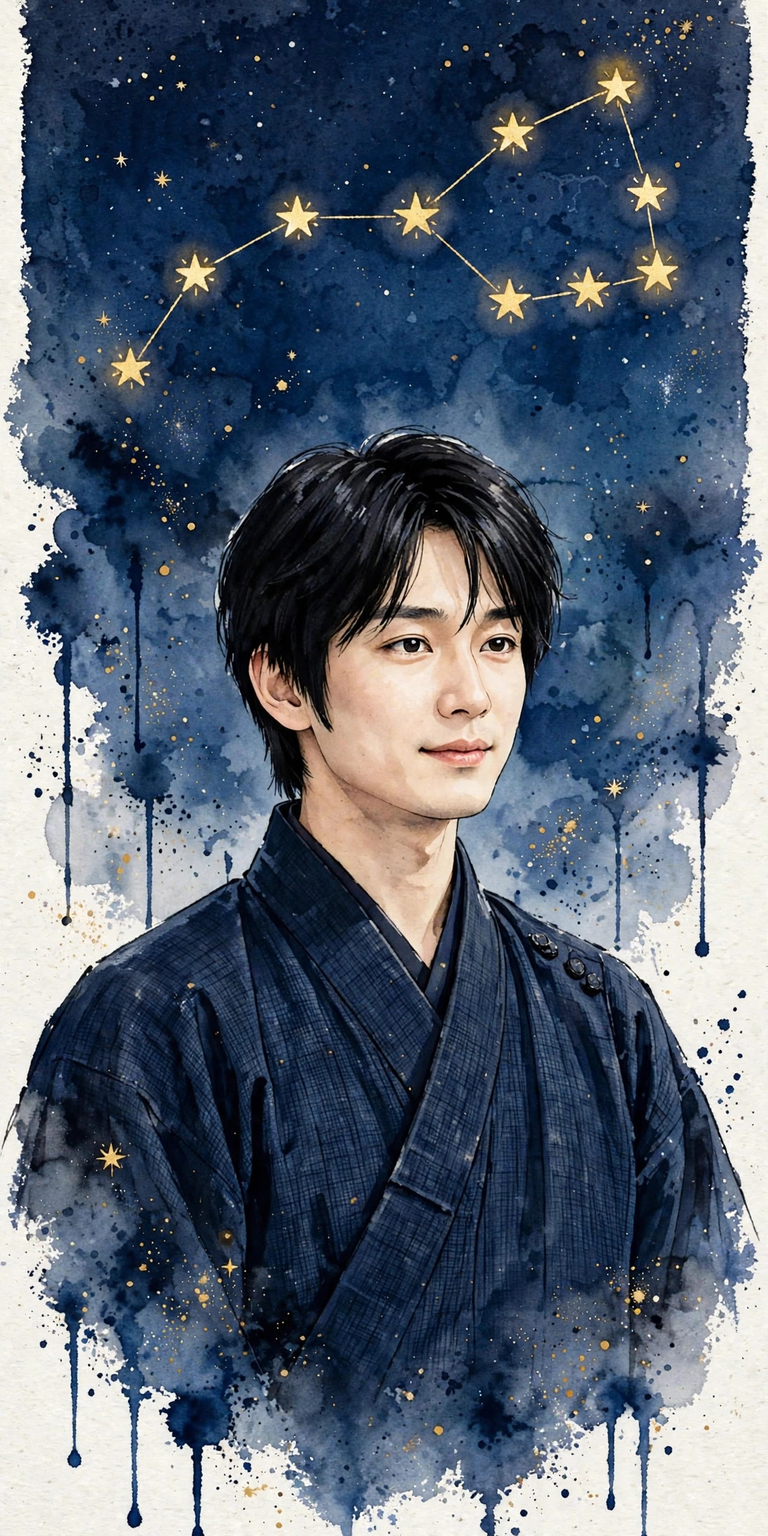
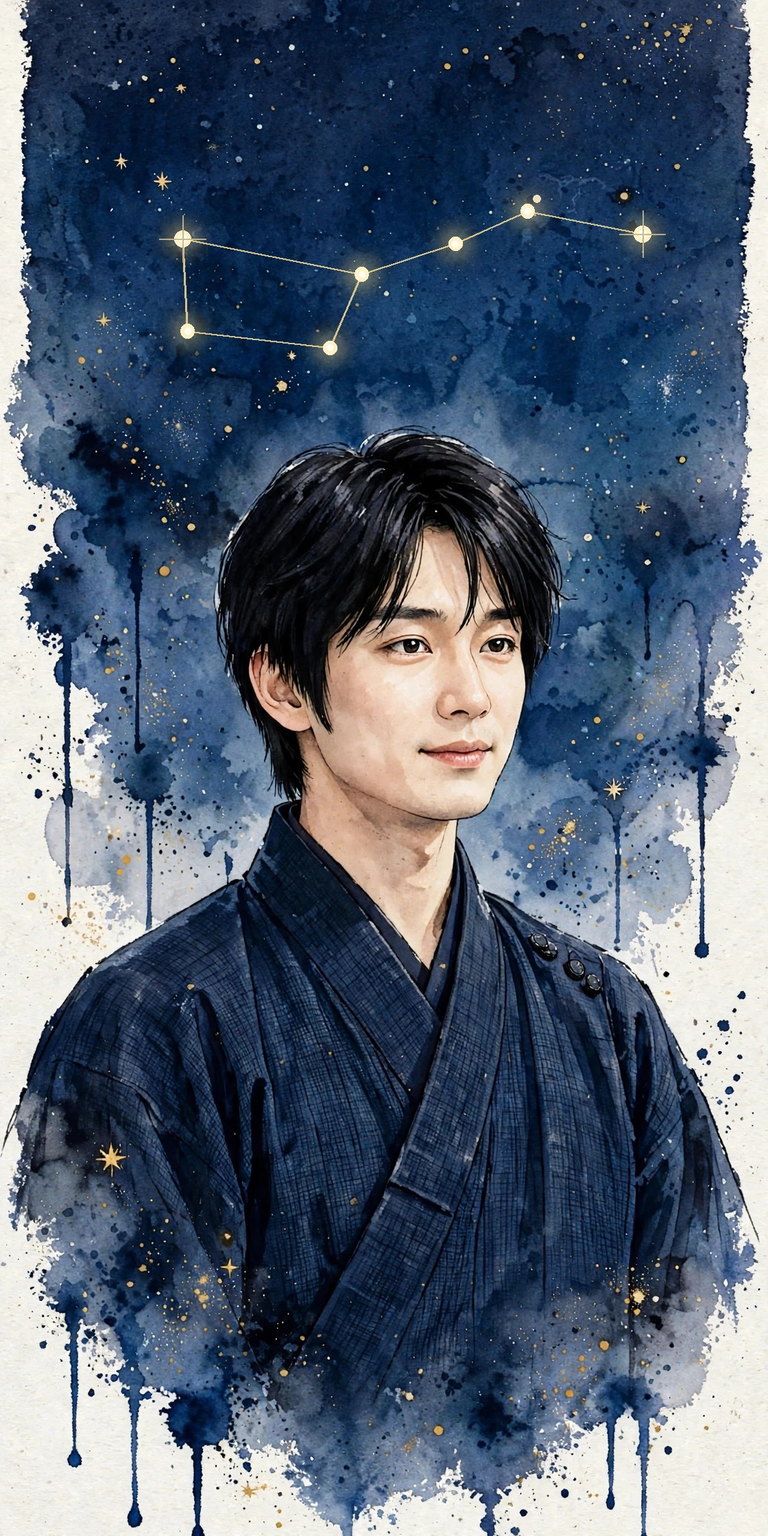
肖像の北斗七星を正確な形に合成、星図に星を追加

diff --git a/index.html b/index.html
@@ -181,7 +181,7 @@ gtag('config', 'G-05REBCGLHK');
 <g transform="rotate(-32 320 320)"><g class="nx-sky">
 <g stroke="rgba(232,201,106,.75)" stroke-width="1.4"><line x1="320.0" y1="48.0" x2="320.0" y2="28.0"/><line x1="382.3" y1="47.0" x2="385.0" y2="35.3"/><line x1="441.5" y1="67.7" x2="446.7" y2="56.9"/><line x1="494.6" y1="101.1" x2="502.1" y2="91.7"/><line x1="538.9" y1="145.4" x2="548.3" y2="137.9"/><line x1="572.3" y1="198.5" x2="583.1" y2="193.3"/><line x1="593.0" y1="257.7" x2="604.7" y2="255.0"/><line x1="592.0" y1="320.0" x2="612.0" y2="320.0"/><line x1="593.0" y1="382.3" x2="604.7" y2="385.0"/><line x1="572.3" y1="441.5" x2="583.1" y2="446.7"/><line x1="538.9" y1="494.6" x2="548.3" y2="502.1"/><line x1="494.6" y1="538.9" x2="502.1" y2="548.3"/><line x1="441.5" y1="572.3" x2="446.7" y2="583.1"/><line x1="382.3" y1="593.0" x2="385.0" y2="604.7"/><line x1="320.0" y1="592.0" x2="320.0" y2="612.0"/><line x1="257.7" y1="593.0" x2="255.0" y2="604.7"/><line x1="198.5" y1="572.3" x2="193.3" y2="583.1"/><line x1="145.4" y1="538.9" x2="137.9" y2="548.3"/><line x1="101.1" y1="494.6" x2="91.7" y2="502.1"/><line x1="67.7" y1="441.5" x2="56.9" y2="446.7"/><line x1="47.0" y1="382.3" x2="35.3" y2="385.0"/><line x1="48.0" y1="320.0" x2="28.0" y2="320.0"/><line x1="47.0" y1="257.7" x2="35.3" y2="255.0"/><line x1="67.7" y1="198.5" x2="56.9" y2="193.3"/><line x1="101.1" y1="145.4" x2="91.7" y2="137.9"/><line x1="145.4" y1="101.1" x2="137.9" y2="91.7"/><line x1="198.5" y1="67.7" x2="193.3" y2="56.9"/><line x1="257.7" y1="47.0" x2="255.0" y2="35.3"/></g>
 
-<path d="M316.9,316.1 L343.0,322.8" stroke="rgba(232,201,106,.45)" stroke-width="1"/><path d="M343.0,322.8 L371.3,337.2" stroke="rgba(232,201,106,.45)" stroke-width="1"/><path d="M371.3,337.2 L388.8,366.4" stroke="rgba(232,201,106,.45)" stroke-width="1"/><path d="M388.8,366.4 L407.3,361.9" stroke="rgba(232,201,106,.45)" stroke-width="1"/><path d="M407.3,361.9 L393.0,399.2" stroke="rgba(232,201,106,.45)" stroke-width="1"/><path d="M393.0,399.2 L414.9,399.1" stroke="rgba(232,201,106,.45)" stroke-width="1"/><path d="M414.9,399.1 L388.8,366.4" stroke="rgba(232,201,106,.45)" stroke-width="1"/><circle cx="343.0" cy="322.8" r="2.4" fill="#e8d9a0"/><circle cx="371.3" cy="337.2" r="2.2" fill="#e8d9a0"/><circle cx="388.8" cy="366.4" r="2.6" fill="#e8d9a0"/><circle cx="407.3" cy="361.9" r="2.2" fill="#e8d9a0"/><circle cx="393.0" cy="399.2" r="3.4" fill="#e8d9a0"/><circle cx="414.9" cy="399.1" r="3.2" fill="#e8d9a0"/><path d="M311.6,110.4 L280.0,96.0" stroke="rgba(232,201,106,.5)" stroke-width="1"/><path d="M280.0,96.0 L271.2,126.9" stroke="rgba(232,201,106,.5)" stroke-width="1"/><path d="M271.2,126.9 L246.0,131.6" stroke="rgba(232,201,106,.5)" stroke-width="1"/><path d="M246.0,131.6 L234.3,162.8" stroke="rgba(232,201,106,.5)" stroke-width="1"/><circle cx="311.6" cy="110.4" r="3.8" fill="#f2df9e"/><circle cx="280.0" cy="96.0" r="3.8" fill="#f2df9e"/><circle cx="271.2" cy="126.9" r="3.8" fill="#f2df9e"/><circle cx="246.0" cy="131.6" r="3.8" fill="#f2df9e"/><circle cx="234.3" cy="162.8" r="3.8" fill="#f2df9e"/><circle cx="406.5" cy="541.8" r="1.9" fill="#ffe9a8"/><text x="414.5" y="535.8" font-size="11" fill="#cbbd8a" letter-spacing=".12em">輔星</text><text x="422.9" y="417.0" font-size="13" fill="rgba(203,189,138,.9)" letter-spacing=".34em" text-anchor="middle">こぐま座</text><text x="263.9" y="97.9" font-size="13" fill="rgba(203,189,138,.9)" letter-spacing=".34em" text-anchor="middle">カシオペヤ座</text><ellipse cx="215" cy="215" rx="330" ry="105" fill="rgba(240,230,200,.05)" transform="rotate(-38 320 320)" filter="url(#nxblur)"/><defs><filter id="nxblur" x="-20%" y="-20%" width="140%" height="140%"><feGaussianBlur stdDeviation="16"/></filter></defs><path d="M302.3,459.4 L340.0,455.9" stroke="rgba(232,201,106,.38)" stroke-width="1"/><path d="M340.0,455.9 L410.0,469.2" stroke="rgba(232,201,106,.38)" stroke-width="1"/><path d="M410.0,469.2 L484.5,452.2" stroke="rgba(232,201,106,.38)" stroke-width="1"/><path d="M484.5,452.2 L496.9,398.9" stroke="rgba(232,201,106,.38)" stroke-width="1"/><path d="M496.9,398.9 L481.0,356.8" stroke="rgba(232,201,106,.38)" stroke-width="1"/><path d="M481.0,356.8 L545.2,326.9" stroke="rgba(232,201,106,.38)" stroke-width="1"/><path d="M545.2,326.9 L581.8,323.9" stroke="rgba(232,201,106,.38)" stroke-width="1"/><path d="M581.8,323.9 L574.2,353.0" stroke="rgba(232,201,106,.38)" stroke-width="1"/><path d="M574.2,353.0 L555.0,348.5" stroke="rgba(232,201,106,.38)" stroke-width="1"/><path d="M555.0,348.5 L545.2,326.9" stroke="rgba(232,201,106,.38)" stroke-width="1"/><circle cx="302.3" cy="459.4" r="2.6" fill="#e8d9a0"/><circle cx="340.0" cy="455.9" r="2.6" fill="#e8d9a0"/><circle cx="410.0" cy="469.2" r="2.6" fill="#e8d9a0"/><circle cx="484.5" cy="452.2" r="2.6" fill="#e8d9a0"/><circle cx="496.9" cy="398.9" r="2.6" fill="#e8d9a0"/><circle cx="481.0" cy="356.8" r="2.6" fill="#e8d9a0"/><circle cx="545.2" cy="326.9" r="2.6" fill="#e8d9a0"/><circle cx="581.8" cy="323.9" r="2.6" fill="#e8d9a0"/><circle cx="574.2" cy="353.0" r="2.6" fill="#e8d9a0"/><circle cx="555.0" cy="348.5" r="2.6" fill="#e8d9a0"/><text x="524.3" y="411.2" font-size="13" fill="rgba(203,189,138,.9)" letter-spacing=".34em" text-anchor="middle">りゅう座</text><path d="M465.1,192.7 L440.7,178.0" stroke="rgba(232,201,106,.42)" stroke-width="1"/><path d="M440.7,178.0 L401.1,215.6" stroke="rgba(232,201,106,.42)" stroke-width="1"/><path d="M401.1,215.6 L327.6,236.2" stroke="rgba(232,201,106,.42)" stroke-width="1"/><path d="M440.7,178.0 L419.1,127.8" stroke="rgba(232,201,106,.42)" stroke-width="1"/><path d="M419.1,127.8 L402.9,121.9" stroke="rgba(232,201,106,.42)" stroke-width="1"/><path d="M402.9,121.9 L440.7,178.0" stroke="rgba(232,201,106,.42)" stroke-width="1"/><circle cx="440.7" cy="178.0" r="2.8" fill="#e8d9a0"/><circle cx="401.1" cy="215.6" r="2.8" fill="#e8d9a0"/><circle cx="327.6" cy="236.2" r="2.8" fill="#e8d9a0"/><circle cx="419.1" cy="127.8" r="2.8" fill="#e8d9a0"/><circle cx="465.1" cy="192.7" r="2.8" fill="#e8d9a0"/><circle cx="402.9" cy="121.9" r="2.8" fill="#e8d9a0"/><text x="432.8" y="101.1" font-size="13" fill="rgba(203,189,138,.9)" letter-spacing=".34em" text-anchor="middle">ケフェウス座</text><path d="M140.9,148.2 L107.7,148.5" stroke="rgba(232,201,106,.4)" stroke-width="1"/><path d="M107.7,148.5 L82.8,158.3" stroke="rgba(232,201,106,.4)" stroke-width="1"/><circle cx="140.9" cy="148.2" r="2.7" fill="#e8d9a0"/><circle cx="107.7" cy="148.5" r="2.7" fill="#e8d9a0"/><circle cx="82.8" cy="158.3" r="2.7" fill="#e8d9a0"/><text x="84.3" y="129.7" font-size="13" fill="rgba(203,189,138,.9)" letter-spacing=".34em" text-anchor="middle">ペルセウス座</text><path d="M171.5,257.9 L157.5,275.2" stroke="rgba(232,201,106,.3)" stroke-width="1"/><path d="M157.5,275.2 L125.0,271.1" stroke="rgba(232,201,106,.3)" stroke-width="1"/><circle cx="171.5" cy="257.9" r="2.1" fill="#d9c98f" opacity=".8"/><circle cx="125.0" cy="271.1" r="2.1" fill="#d9c98f" opacity=".8"/><circle cx="157.5" cy="275.2" r="2.1" fill="#d9c98f" opacity=".8"/><text x="132.5" y="268.3" font-size="13" fill="rgba(203,189,138,.9)" letter-spacing=".34em" text-anchor="middle">キリン座</text><path d="M262.6,541.3 L316.9,316.1" stroke="rgba(232,201,106,.4)" stroke-width="1" stroke-dasharray="2 6"/>
+<path d="M316.9,316.1 L343.0,322.8" stroke="rgba(232,201,106,.45)" stroke-width="1"/><path d="M343.0,322.8 L371.3,337.2" stroke="rgba(232,201,106,.45)" stroke-width="1"/><path d="M371.3,337.2 L388.8,366.4" stroke="rgba(232,201,106,.45)" stroke-width="1"/><path d="M388.8,366.4 L407.3,361.9" stroke="rgba(232,201,106,.45)" stroke-width="1"/><path d="M407.3,361.9 L393.0,399.2" stroke="rgba(232,201,106,.45)" stroke-width="1"/><path d="M393.0,399.2 L414.9,399.1" stroke="rgba(232,201,106,.45)" stroke-width="1"/><path d="M414.9,399.1 L388.8,366.4" stroke="rgba(232,201,106,.45)" stroke-width="1"/><circle cx="343.0" cy="322.8" r="2.4" fill="#e8d9a0"/><circle cx="371.3" cy="337.2" r="2.2" fill="#e8d9a0"/><circle cx="388.8" cy="366.4" r="2.6" fill="#e8d9a0"/><circle cx="407.3" cy="361.9" r="2.2" fill="#e8d9a0"/><circle cx="393.0" cy="399.2" r="3.4" fill="#e8d9a0"/><circle cx="414.9" cy="399.1" r="3.2" fill="#e8d9a0"/><path d="M311.6,110.4 L280.0,96.0" stroke="rgba(232,201,106,.5)" stroke-width="1"/><path d="M280.0,96.0 L271.2,126.9" stroke="rgba(232,201,106,.5)" stroke-width="1"/><path d="M271.2,126.9 L246.0,131.6" stroke="rgba(232,201,106,.5)" stroke-width="1"/><path d="M246.0,131.6 L234.3,162.8" stroke="rgba(232,201,106,.5)" stroke-width="1"/><circle cx="311.6" cy="110.4" r="3.8" fill="#f2df9e"/><circle cx="280.0" cy="96.0" r="3.8" fill="#f2df9e"/><circle cx="271.2" cy="126.9" r="3.8" fill="#f2df9e"/><circle cx="246.0" cy="131.6" r="3.8" fill="#f2df9e"/><circle cx="234.3" cy="162.8" r="3.8" fill="#f2df9e"/><circle cx="406.5" cy="541.8" r="1.9" fill="#ffe9a8"/><text x="414.5" y="535.8" font-size="11" fill="#cbbd8a" letter-spacing=".12em">輔星</text><text x="422.9" y="417.0" font-size="13" fill="rgba(203,189,138,.9)" letter-spacing=".34em" text-anchor="middle">こぐま座</text><text x="263.9" y="97.9" font-size="13" fill="rgba(203,189,138,.9)" letter-spacing=".34em" text-anchor="middle">カシオペヤ座</text><ellipse cx="215" cy="215" rx="330" ry="105" fill="rgba(240,230,200,.05)" transform="rotate(-38 320 320)" filter="url(#nxblur)"/><defs><filter id="nxblur" x="-20%" y="-20%" width="140%" height="140%"><feGaussianBlur stdDeviation="16"/></filter></defs><path d="M302.3,459.4 L340.0,455.9" stroke="rgba(232,201,106,.38)" stroke-width="1"/><path d="M340.0,455.9 L410.0,469.2" stroke="rgba(232,201,106,.38)" stroke-width="1"/><path d="M410.0,469.2 L484.5,452.2" stroke="rgba(232,201,106,.38)" stroke-width="1"/><path d="M484.5,452.2 L496.9,398.9" stroke="rgba(232,201,106,.38)" stroke-width="1"/><path d="M496.9,398.9 L481.0,356.8" stroke="rgba(232,201,106,.38)" stroke-width="1"/><path d="M481.0,356.8 L545.2,326.9" stroke="rgba(232,201,106,.38)" stroke-width="1"/><path d="M545.2,326.9 L581.8,323.9" stroke="rgba(232,201,106,.38)" stroke-width="1"/><path d="M581.8,323.9 L574.2,353.0" stroke="rgba(232,201,106,.38)" stroke-width="1"/><path d="M574.2,353.0 L555.0,348.5" stroke="rgba(232,201,106,.38)" stroke-width="1"/><path d="M555.0,348.5 L545.2,326.9" stroke="rgba(232,201,106,.38)" stroke-width="1"/><circle cx="302.3" cy="459.4" r="2.6" fill="#e8d9a0"/><circle cx="340.0" cy="455.9" r="2.6" fill="#e8d9a0"/><circle cx="410.0" cy="469.2" r="2.6" fill="#e8d9a0"/><circle cx="484.5" cy="452.2" r="2.6" fill="#e8d9a0"/><circle cx="496.9" cy="398.9" r="2.6" fill="#e8d9a0"/><circle cx="481.0" cy="356.8" r="2.6" fill="#e8d9a0"/><circle cx="545.2" cy="326.9" r="2.6" fill="#e8d9a0"/><circle cx="581.8" cy="323.9" r="2.6" fill="#e8d9a0"/><circle cx="574.2" cy="353.0" r="2.6" fill="#e8d9a0"/><circle cx="555.0" cy="348.5" r="2.6" fill="#e8d9a0"/><text x="524.3" y="411.2" font-size="13" fill="rgba(203,189,138,.9)" letter-spacing=".34em" text-anchor="middle">りゅう座</text><path d="M465.1,192.7 L440.7,178.0" stroke="rgba(232,201,106,.42)" stroke-width="1"/><path d="M440.7,178.0 L401.1,215.6" stroke="rgba(232,201,106,.42)" stroke-width="1"/><path d="M401.1,215.6 L327.6,236.2" stroke="rgba(232,201,106,.42)" stroke-width="1"/><path d="M440.7,178.0 L419.1,127.8" stroke="rgba(232,201,106,.42)" stroke-width="1"/><path d="M419.1,127.8 L402.9,121.9" stroke="rgba(232,201,106,.42)" stroke-width="1"/><path d="M402.9,121.9 L440.7,178.0" stroke="rgba(232,201,106,.42)" stroke-width="1"/><circle cx="440.7" cy="178.0" r="2.8" fill="#e8d9a0"/><circle cx="401.1" cy="215.6" r="2.8" fill="#e8d9a0"/><circle cx="327.6" cy="236.2" r="2.8" fill="#e8d9a0"/><circle cx="419.1" cy="127.8" r="2.8" fill="#e8d9a0"/><circle cx="465.1" cy="192.7" r="2.8" fill="#e8d9a0"/><circle cx="402.9" cy="121.9" r="2.8" fill="#e8d9a0"/><text x="432.8" y="101.1" font-size="13" fill="rgba(203,189,138,.9)" letter-spacing=".34em" text-anchor="middle">ケフェウス座</text><circle cx="162.1" cy="441.3" r="2.5" fill="#e8d9a0"/><circle cx="207.4" cy="498.0" r="2.5" fill="#e8d9a0"/><circle cx="190.7" cy="527.4" r="2.5" fill="#e8d9a0"/><path d="M207.4,498.0 L190.7,527.4" stroke="rgba(232,201,106,.3)" stroke-width="1"/><text x="262.6" y="549.0" font-size="13" fill="rgba(232,201,106,.95)" letter-spacing=".34em" text-anchor="middle">北斗七星</text><circle cx="329.9" cy="316.1" r="1.1" fill="#d9c98f" opacity=".75"/><circle cx="327.4" cy="323.7" r="1.1" fill="#d9c98f" opacity=".75"/><circle cx="320.9" cy="328.4" r="1.1" fill="#d9c98f" opacity=".75"/><circle cx="312.9" cy="328.4" r="1.1" fill="#d9c98f" opacity=".75"/><circle cx="306.4" cy="323.7" r="1.1" fill="#d9c98f" opacity=".75"/><circle cx="303.9" cy="316.1" r="1.1" fill="#d9c98f" opacity=".75"/><circle cx="306.4" cy="308.4" r="1.1" fill="#d9c98f" opacity=".75"/><circle cx="312.9" cy="303.7" r="1.1" fill="#d9c98f" opacity=".75"/><circle cx="320.9" cy="303.7" r="1.1" fill="#d9c98f" opacity=".75"/><circle cx="327.4" cy="308.4" r="1.1" fill="#d9c98f" opacity=".75"/><path d="M140.9,148.2 L107.7,148.5" stroke="rgba(232,201,106,.4)" stroke-width="1"/><path d="M107.7,148.5 L82.8,158.3" stroke="rgba(232,201,106,.4)" stroke-width="1"/><circle cx="140.9" cy="148.2" r="2.7" fill="#e8d9a0"/><circle cx="107.7" cy="148.5" r="2.7" fill="#e8d9a0"/><circle cx="82.8" cy="158.3" r="2.7" fill="#e8d9a0"/><text x="84.3" y="129.7" font-size="13" fill="rgba(203,189,138,.9)" letter-spacing=".34em" text-anchor="middle">ペルセウス座</text><path d="M171.5,257.9 L157.5,275.2" stroke="rgba(232,201,106,.3)" stroke-width="1"/><path d="M157.5,275.2 L125.0,271.1" stroke="rgba(232,201,106,.3)" stroke-width="1"/><circle cx="171.5" cy="257.9" r="2.1" fill="#d9c98f" opacity=".8"/><circle cx="125.0" cy="271.1" r="2.1" fill="#d9c98f" opacity=".8"/><circle cx="157.5" cy="275.2" r="2.1" fill="#d9c98f" opacity=".8"/><text x="132.5" y="268.3" font-size="13" fill="rgba(203,189,138,.9)" letter-spacing=".34em" text-anchor="middle">キリン座</text><path d="M262.6,541.3 L316.9,316.1" stroke="rgba(232,201,106,.4)" stroke-width="1" stroke-dasharray="2 6"/>
 <path d="M273.3,506.3 L262.6,541.3 L313.3,566.8 L335.1,543.7 Z" stroke="rgba(232,201,106,.65)" stroke-width="1.2"/>
 <path d="M335.1,543.7 L374.1,545.1 L405.4,542.7 L445.1,566.8" stroke="rgba(232,201,106,.65)" stroke-width="1.2"/>
 <circle cx="273.3" cy="506.3" r="6" fill="#ffe9a8"/><text x="237.3" y="498.3" font-size="14" fill="#cbbd8a" letter-spacing=".15em">天枢</text><circle cx="262.6" cy="541.3" r="5.5" fill="#ffe9a8"/><text x="254.6" y="567.3" font-size="14" fill="#cbbd8a" letter-spacing=".15em">天璇</text><circle cx="313.3" cy="566.8" r="5" fill="#ffe9a8"/><text x="325.3" y="586.8" font-size="14" fill="#cbbd8a" letter-spacing=".15em">天璣</text><circle cx="335.1" cy="543.7" r="4.5" fill="#ffe9a8"/><text x="297.1" y="557.7" font-size="14" fill="#cbbd8a" letter-spacing=".15em">天権</text><circle cx="374.1" cy="545.1" r="5" fill="#ffe9a8"/><text x="378.1" y="571.1" font-size="14" fill="#cbbd8a" letter-spacing=".15em">玉衡</text><circle cx="405.4" cy="542.7" r="4.5" fill="#ffe9a8"/><text x="411.4" y="528.7" font-size="14" fill="#cbbd8a" letter-spacing=".15em">開陽</text><circle cx="445.1" cy="566.8" r="5.5" fill="#ffe9a8"/><text x="457.1" y="560.8" font-size="14" fill="#cbbd8a" letter-spacing=".15em">搖光</text>
